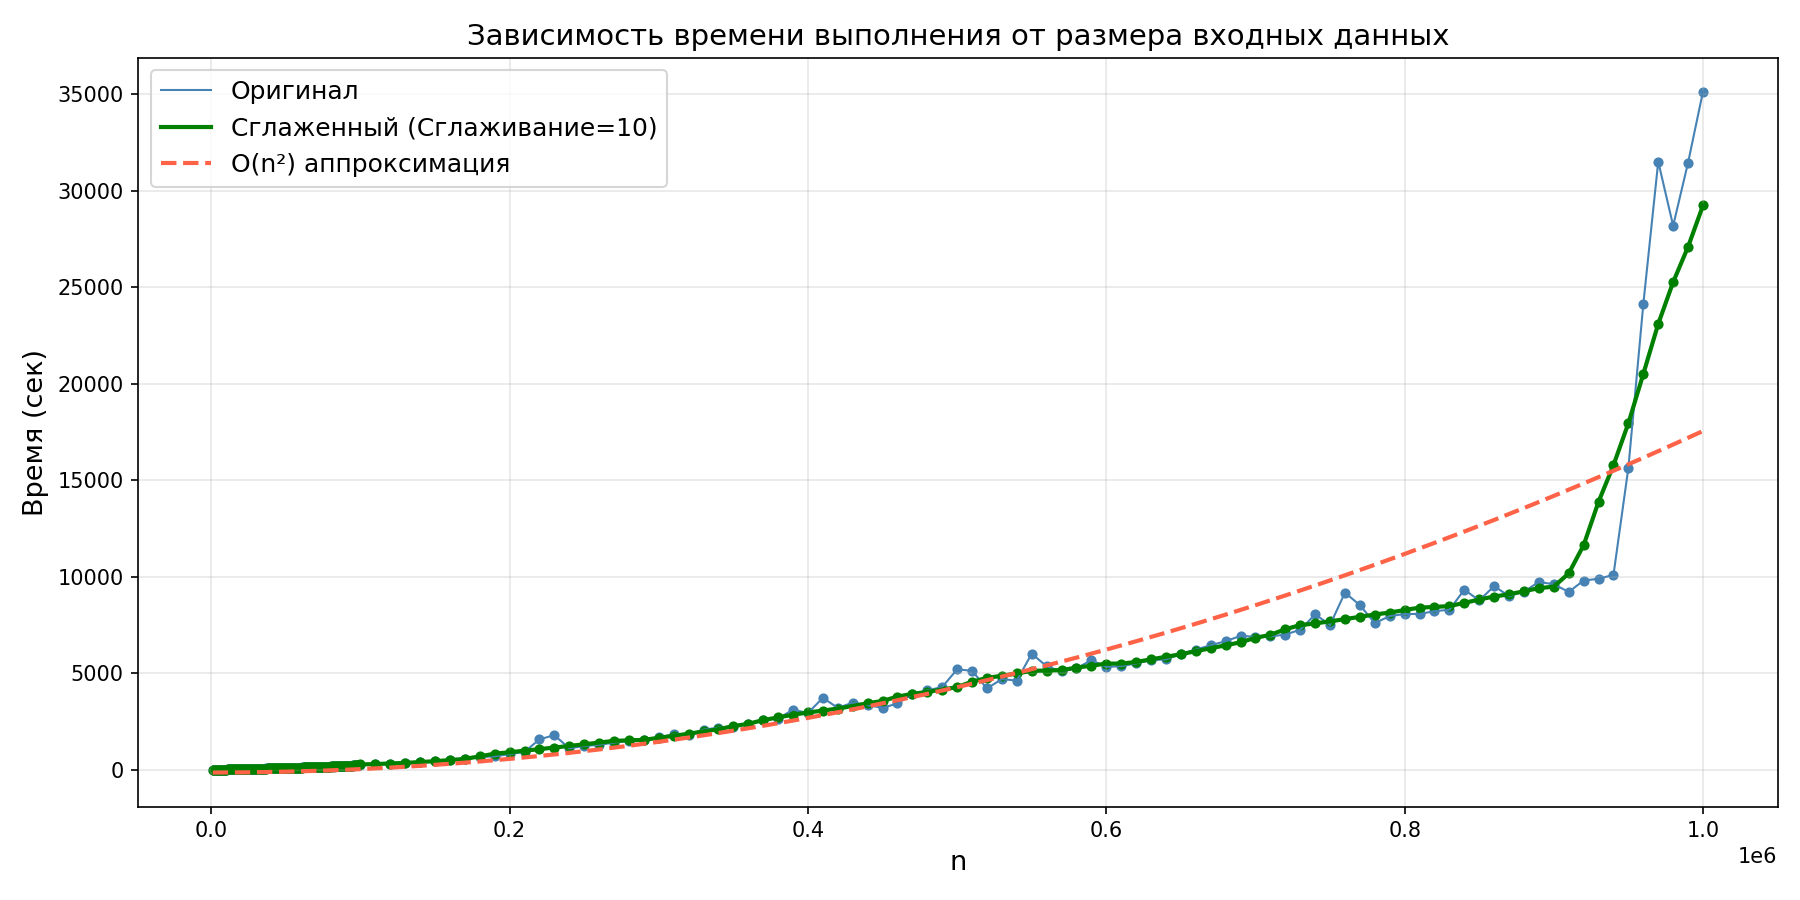
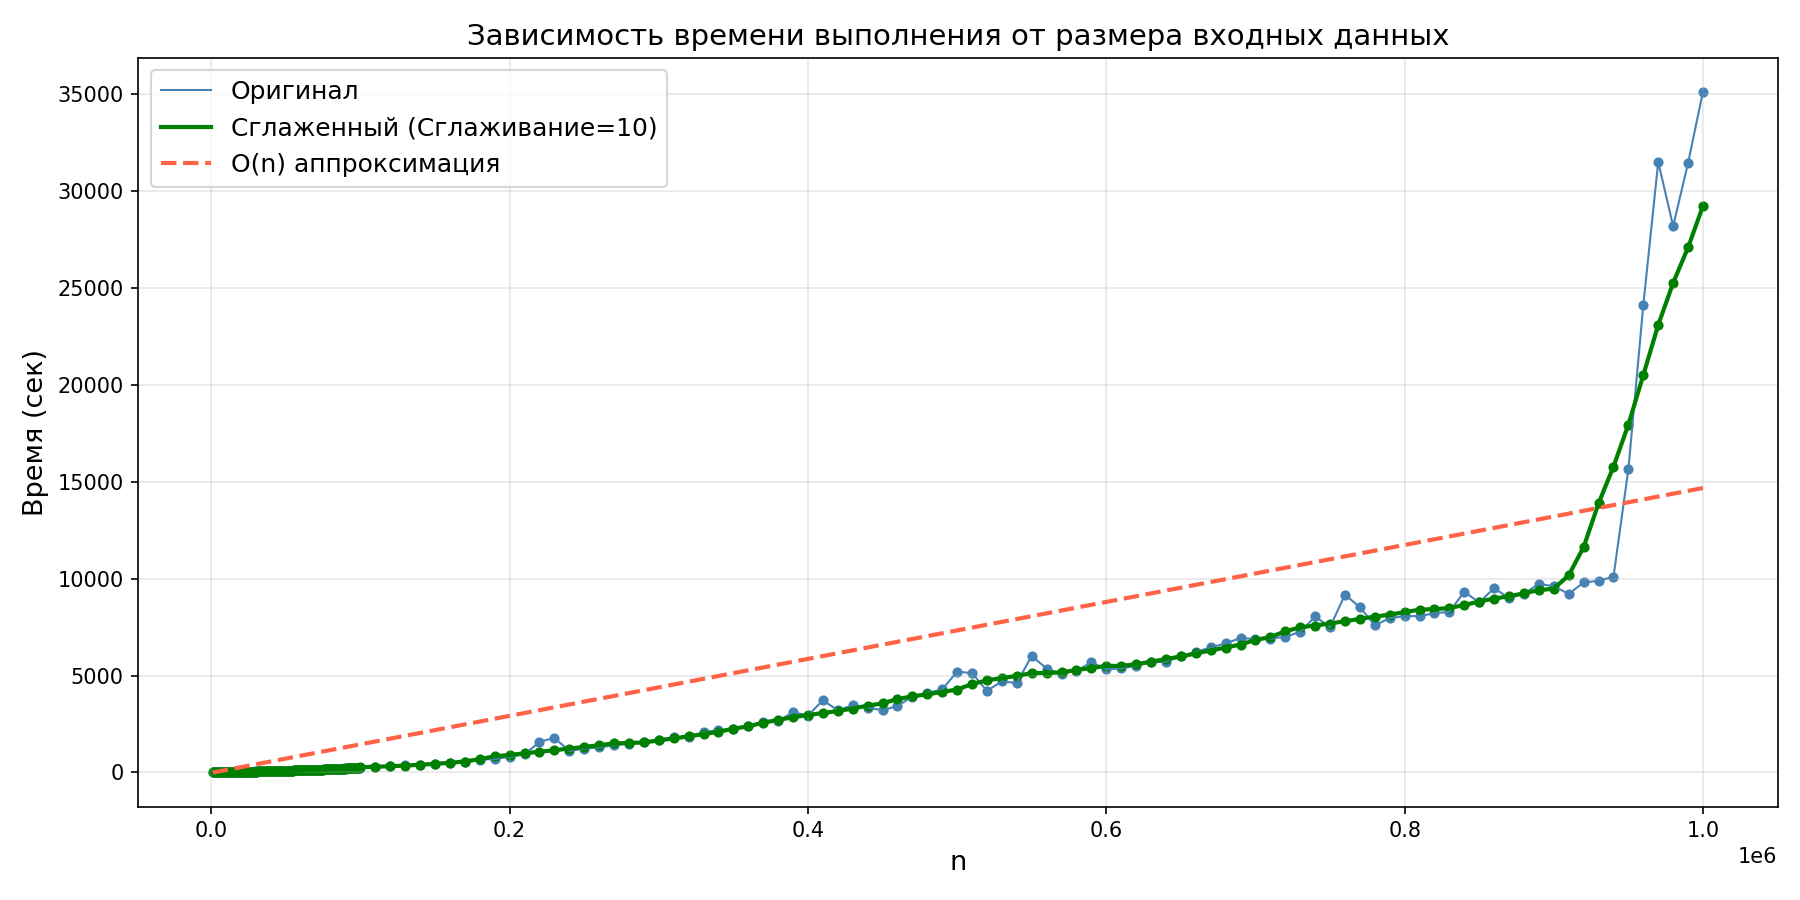
Change approximation"

diff --git a/class_linelist/graph.py b/class_linelist/graph.py
@@ -6,8 +6,8 @@ data = np.genfromtxt('benchmark.csv', delimiter=',', skip_header=1)
 n = data[:, 0]
 t = data[:, 1]
 
-coeffs = np.polyfit(n**2, t, 1)
-t_fit = coeffs[0] * (n**2) + coeffs[1] 
+coeffs = np.polyfit(n, t, 1)
+t_fit = coeffs[0] * (n + coeffs[1] )
 
 SMOOTH = 10
 t_smooth = uniform_filter1d(t, size=SMOOTH)
@@ -20,7 +20,7 @@ ax.scatter(n, t, color='steelblue', s=15)
 ax.plot(n, t_smooth, color='green', linewidth=2, label=f'Сглаженный (Сглаживание={SMOOTH})')
 ax.scatter(n, t_smooth, color='green', s=15)
 
-ax.plot(n, t_fit, color='tomato', linewidth=2, linestyle='--', label='O(n²) аппроксимация')
+ax.plot(n, t_fit, color='tomato', linewidth=2, linestyle='--', label='O(n) аппроксимация')
 
 ax.set_xlabel('n', fontsize=13)
 ax.set_ylabel('Время (сек)', fontsize=13)
